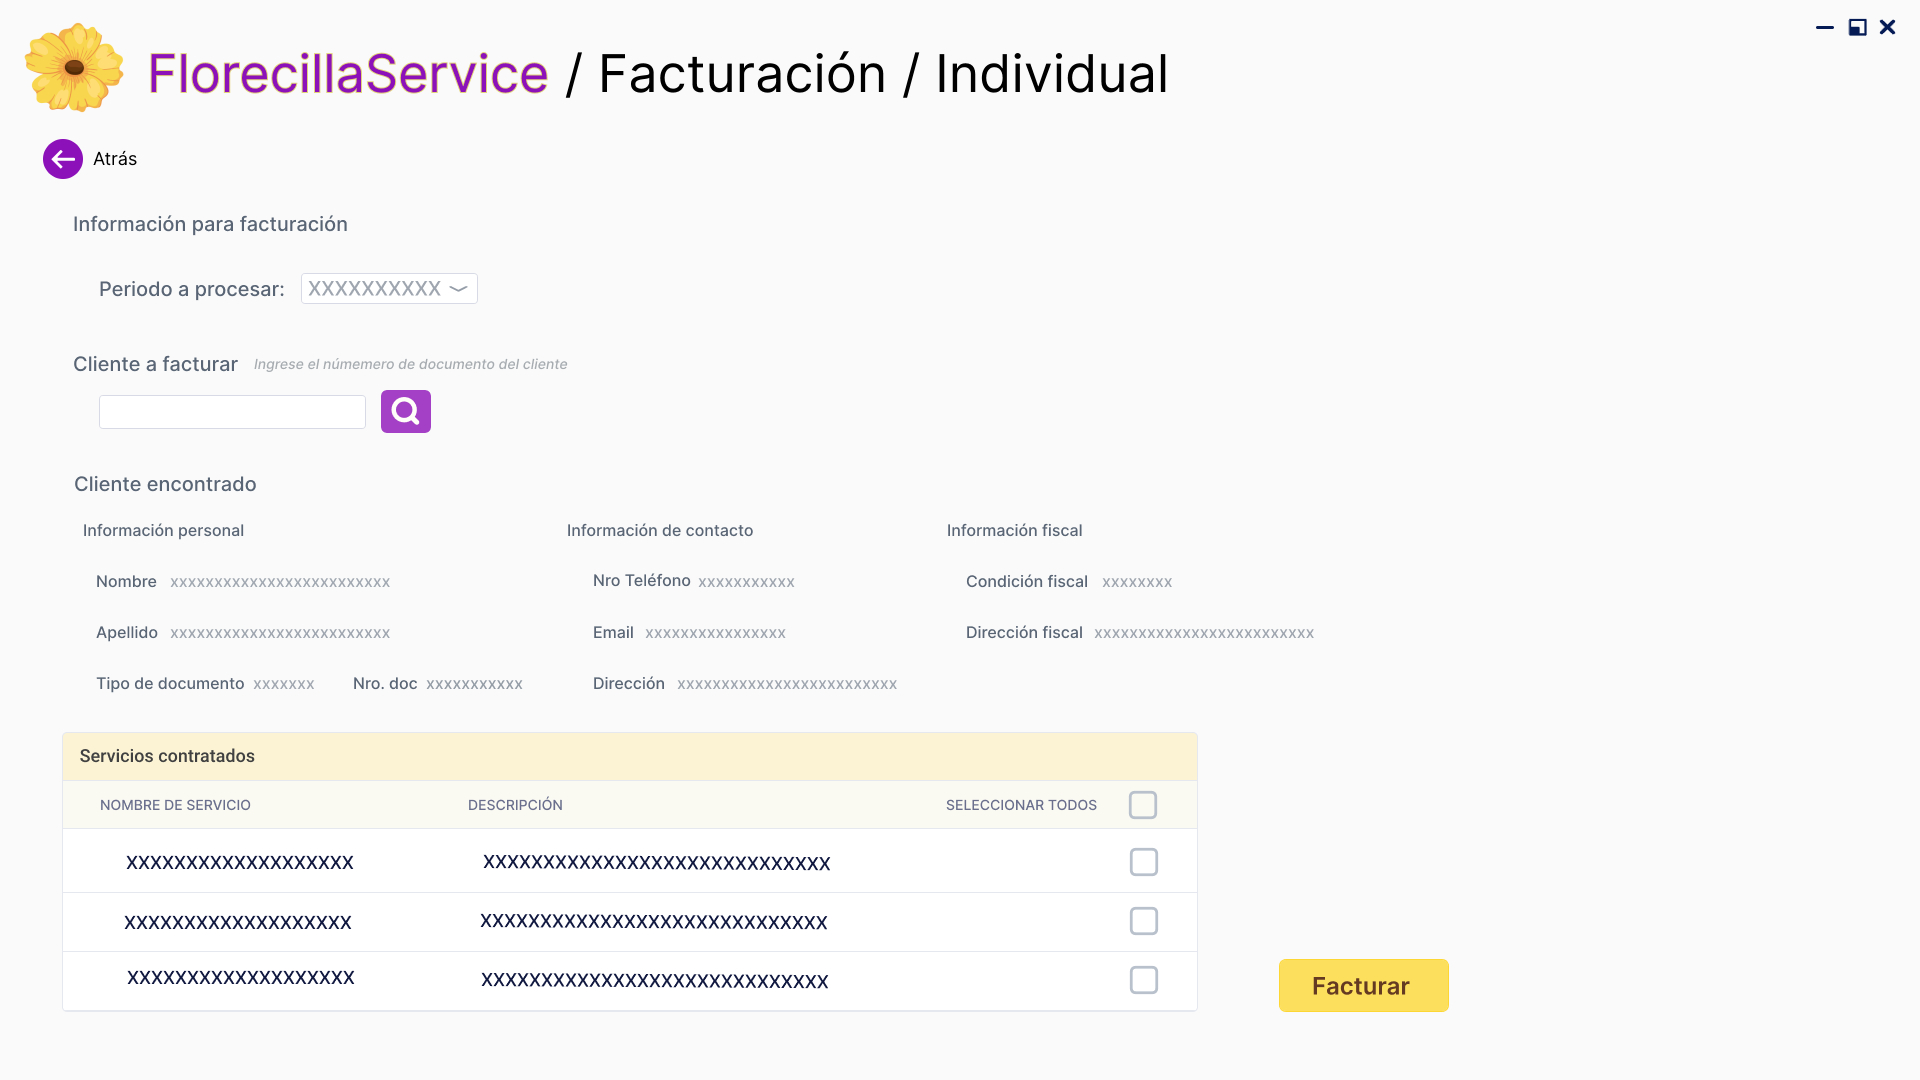
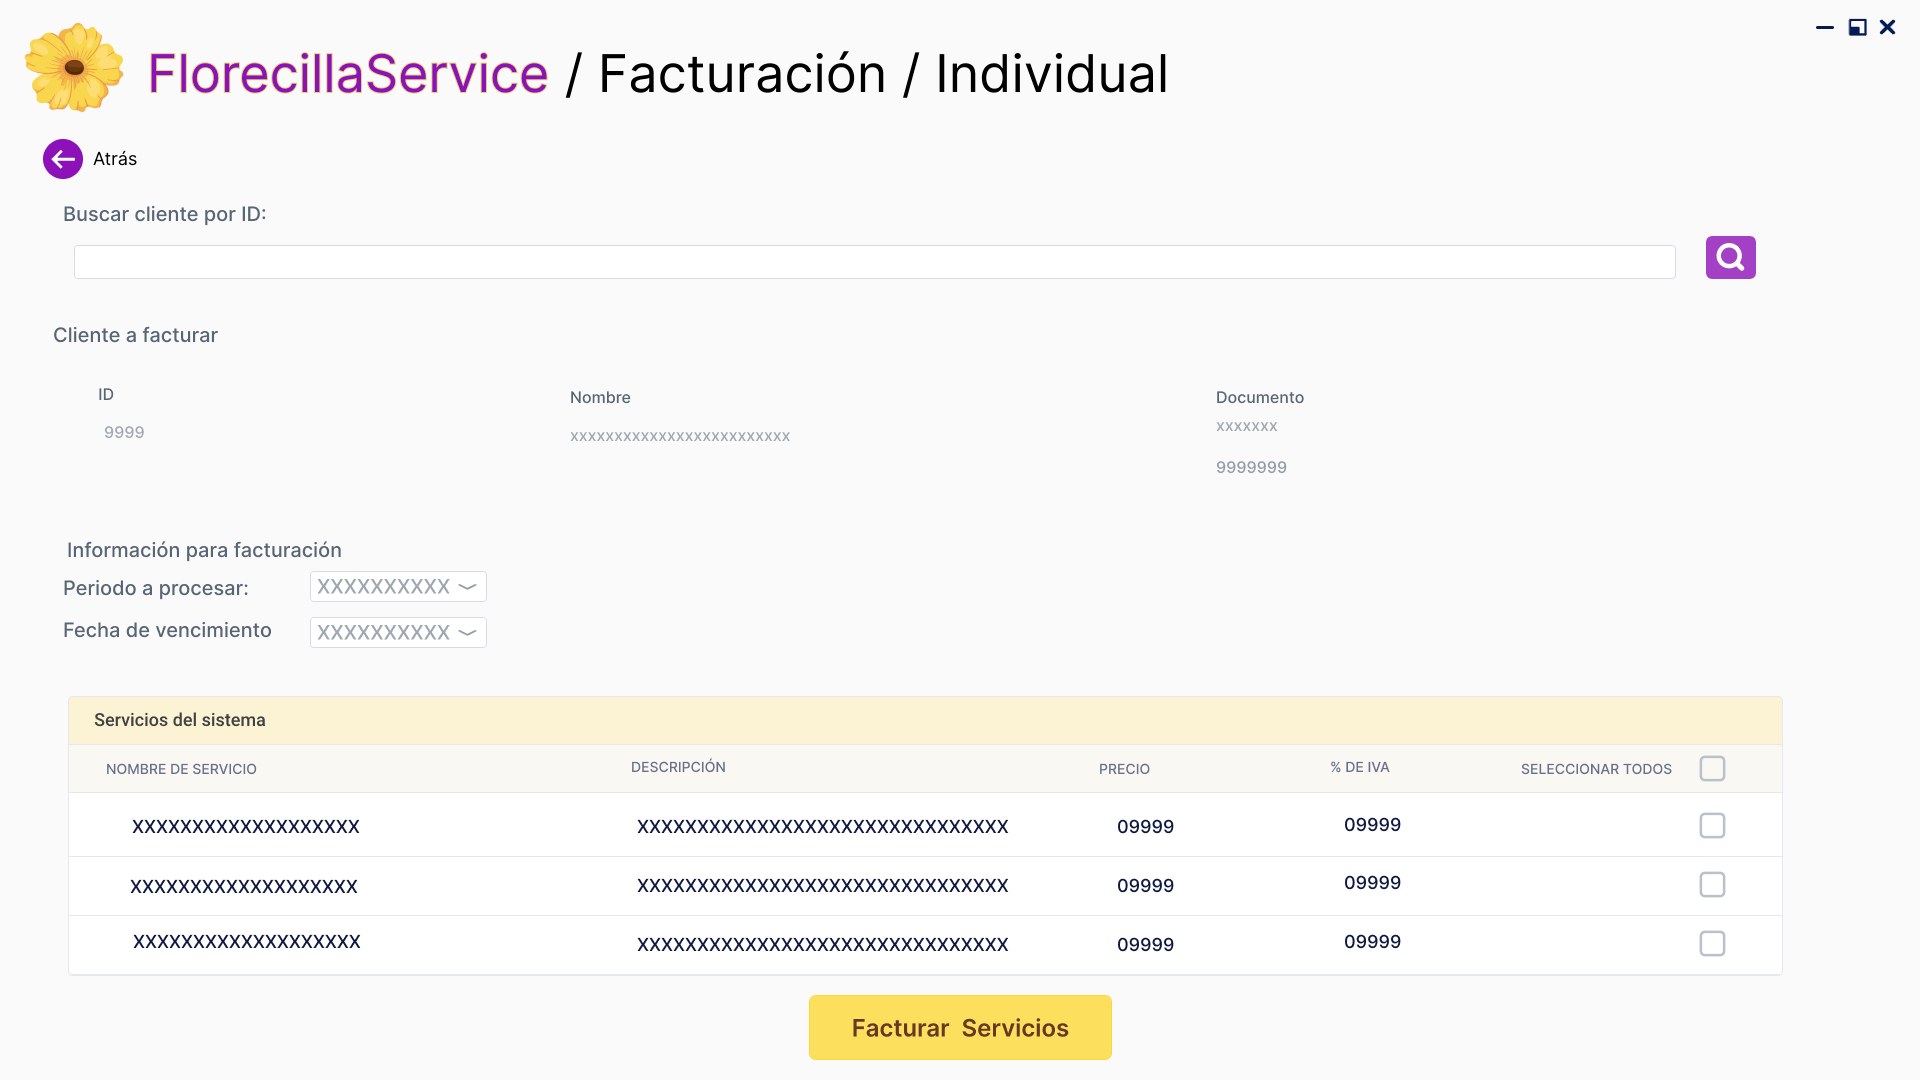
Agregué mis aportes al dp-iteracion-1

diff --git a/docs/dp-iteracion-1.md b/docs/dp-iteracion-1.md
@@ -47,9 +47,16 @@ Al seleccionar un servicio de la tabla, se habilitan los botones **Baja** y **Mo
 
 ### Pantalla de Facturación Masiva
 ![Pantalla de Gestión de Clientes](../wireframes-y-pantallas/pantallas/Pantalla-FacturacionMasiva.jpg)
+La pantalla de **Facturación Masiva** permite facturar a todos los clientes que tengan un cierto servicio seleccionado asociado. En la primer sección se observan campos para elegir el periodo que abarcarán y la fecha de vencimiento que tendrán las facturas a emitir. Luego encontramos el botón **Facturar Servicios**. Este botón tomará los datos cargados en pantalla para enviar facturas del o los servicios elegidos a todos aquellos que los hayan contratado, dejando también un registro en un log único de facturación masiva.
+Los campos Periodo y Fecha de Vencimiento son obligatorios y debe seleccionarse al menos un servicio de la lista.
 
-(inserte descripcion)
-
+### Pantalla de Facturación Individual
+![Pantalla de Gestión de Clientes](../wireframes-y-pantallas/pantallas/Pantalla-FacturacionIndividual.jpg)
+La pantalla de **Facturación Individual** permite facturar a un cliente uno o más servicios. Es similar a la facturación masiva, y de hecho, la facturación masiva hace uso de la individual para su funcionamiento. 
+En la primer sección se observa un campo para buscar a un cliente a través de su ID. Al presionar la lupa se nos habilitará la visibilidad de las siguientes secciones.
+La segunda sección nos despliega los datos del cliente a facturar.
+La última sección nos presenta campos para elegir el periodo que abarcarán y la fecha de vencimiento que tendrán las facturas a emitir. Luego encontramos el botón **Facturar Servicios**. Este botón tomará los datos cargados en pantalla para enviar una o más facturas al cliente según el o los servicios seleccionados.
+Los campos ID Cliente, Periodo y Fecha de Vencimiento son obligatorios y debe seleccionarse al menos un servicio de la lista.
 
 # Backlog de iteraciones
 
@@ -95,3 +102,14 @@ Con estas clases implementadas, avancé con la creación del `ClienteServicio`, 
 Más adelante implementé el `ClienteRepositorio`, donde definí los métodos encargados del acceso y persistencia de datos, permitiendo almacenar, consultar y actualizar información del cliente, aprovechando también las capacidades provistas por **JpaRepository**.
 
 Por último, desarrollé el `ClienteControlador`, encargado de exponer los **endpoints** necesarios para la interacción mediante peticiones HTTP. En el mismo integré los servicios con la capa de presentación, habilitando operaciones como registrar un nuevo cliente, obtener un cliente o realizar búsquedas por su id.
+
+###### **Menacho Natalia Agustina**
+Mis aportes en este proyecto fueron los siguientes.
+
+Me enfoqué en el desarrollo de las **HU 07 - Facturacion masiva manual** y **HU 08 - Facturacion individual**, y a último momento trabajé en desarrollar la **HU 11 - Anulación de factura**, aunque hablaré mejor sobre ella en un rato.
+
+Tuve la tarea de desarrollar la función de facturación, tanto la individual como la masiva. Ayudé también a Roko a llevar los diseños de estas dos pantallas a código y vincularlas con las funcionalidades. Definí las clases, servicios, controladores y repositorios relacionados a la facturación, y armé el log de la facturación masiva. Es decir, me encargué en primera instancia del desarrollo de: `Factura`, `DetalleFactura`, `LogFacturacionMasiva`, `EstadoFactura`, `FacturaControlador`, `FacturaServicio`, `FacturaRepositorio`, `DetalleFacturaRepositorio` y `LogFacturacionMasRepositorio`. Utilizé las funciones de `setters` y `getters` provistos por Lombok para mayor comodidad y un código más corto y ordenado, además de que implementé distintas validaciones en los atributos.
+
+Durante la segunda semana de la primera iteración, uno de nuestros integrantes se retiró y decidí desarrollar las funcionalidades de la historia de usuario que le correspondía: **HU 11 - Anulación de factura**. 
+
+Actualmente las funciones y clases relacionadas a la misma se encuentran en el código del proyecto, pero no es posible anular una factura a través de la interfaz del programa todavía. Se trabajará sobre ello en la siguiente iteración. Lo que sí se posee en este momento es el desarrollo de `NotaCredito`, `DetalleNota`, `NotaControlador`, `NotaRepositorio`, `DetalleNotaRepositorio` y `NotaServicio`.
